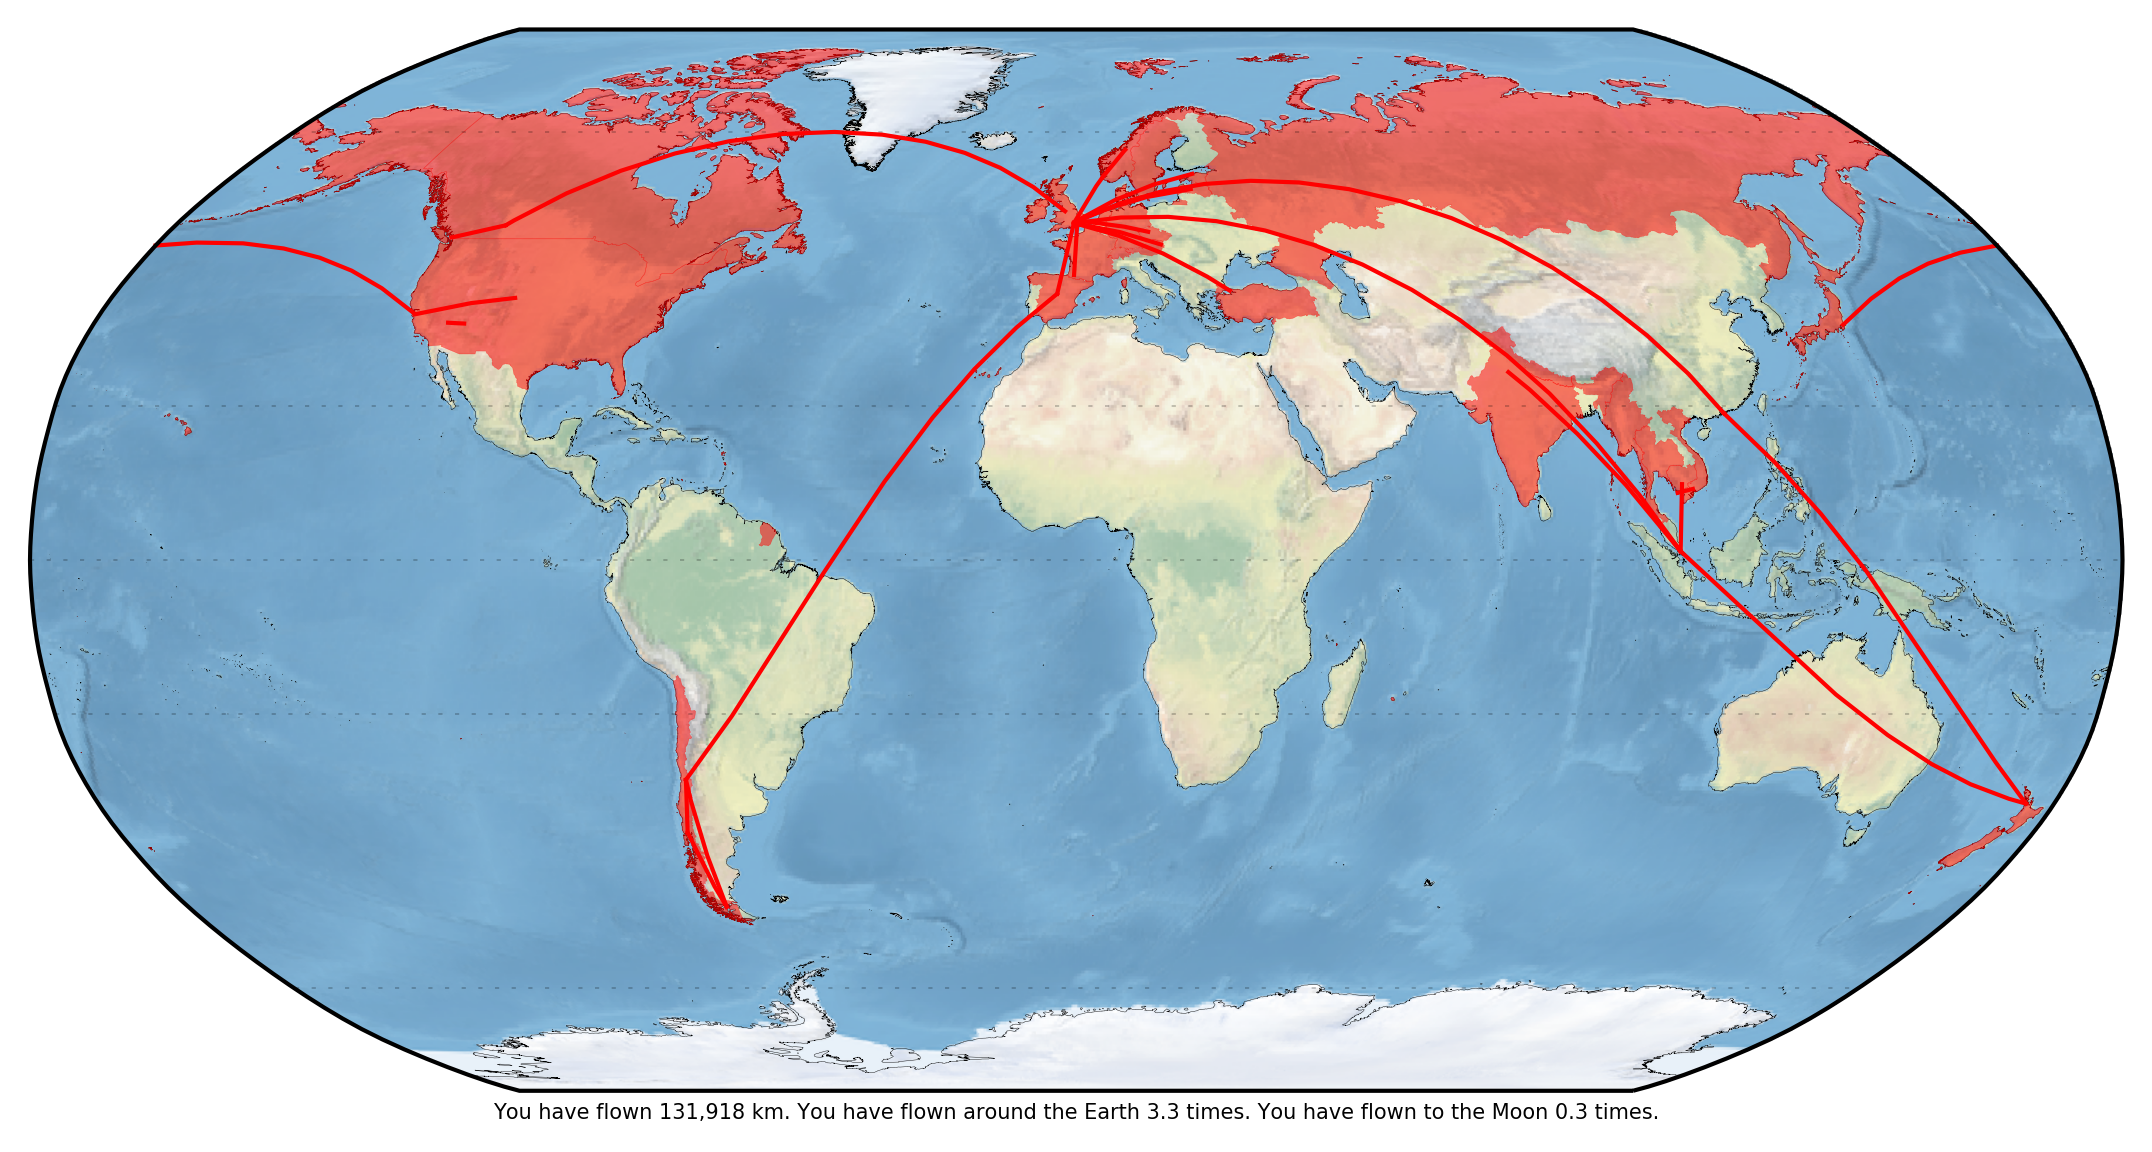
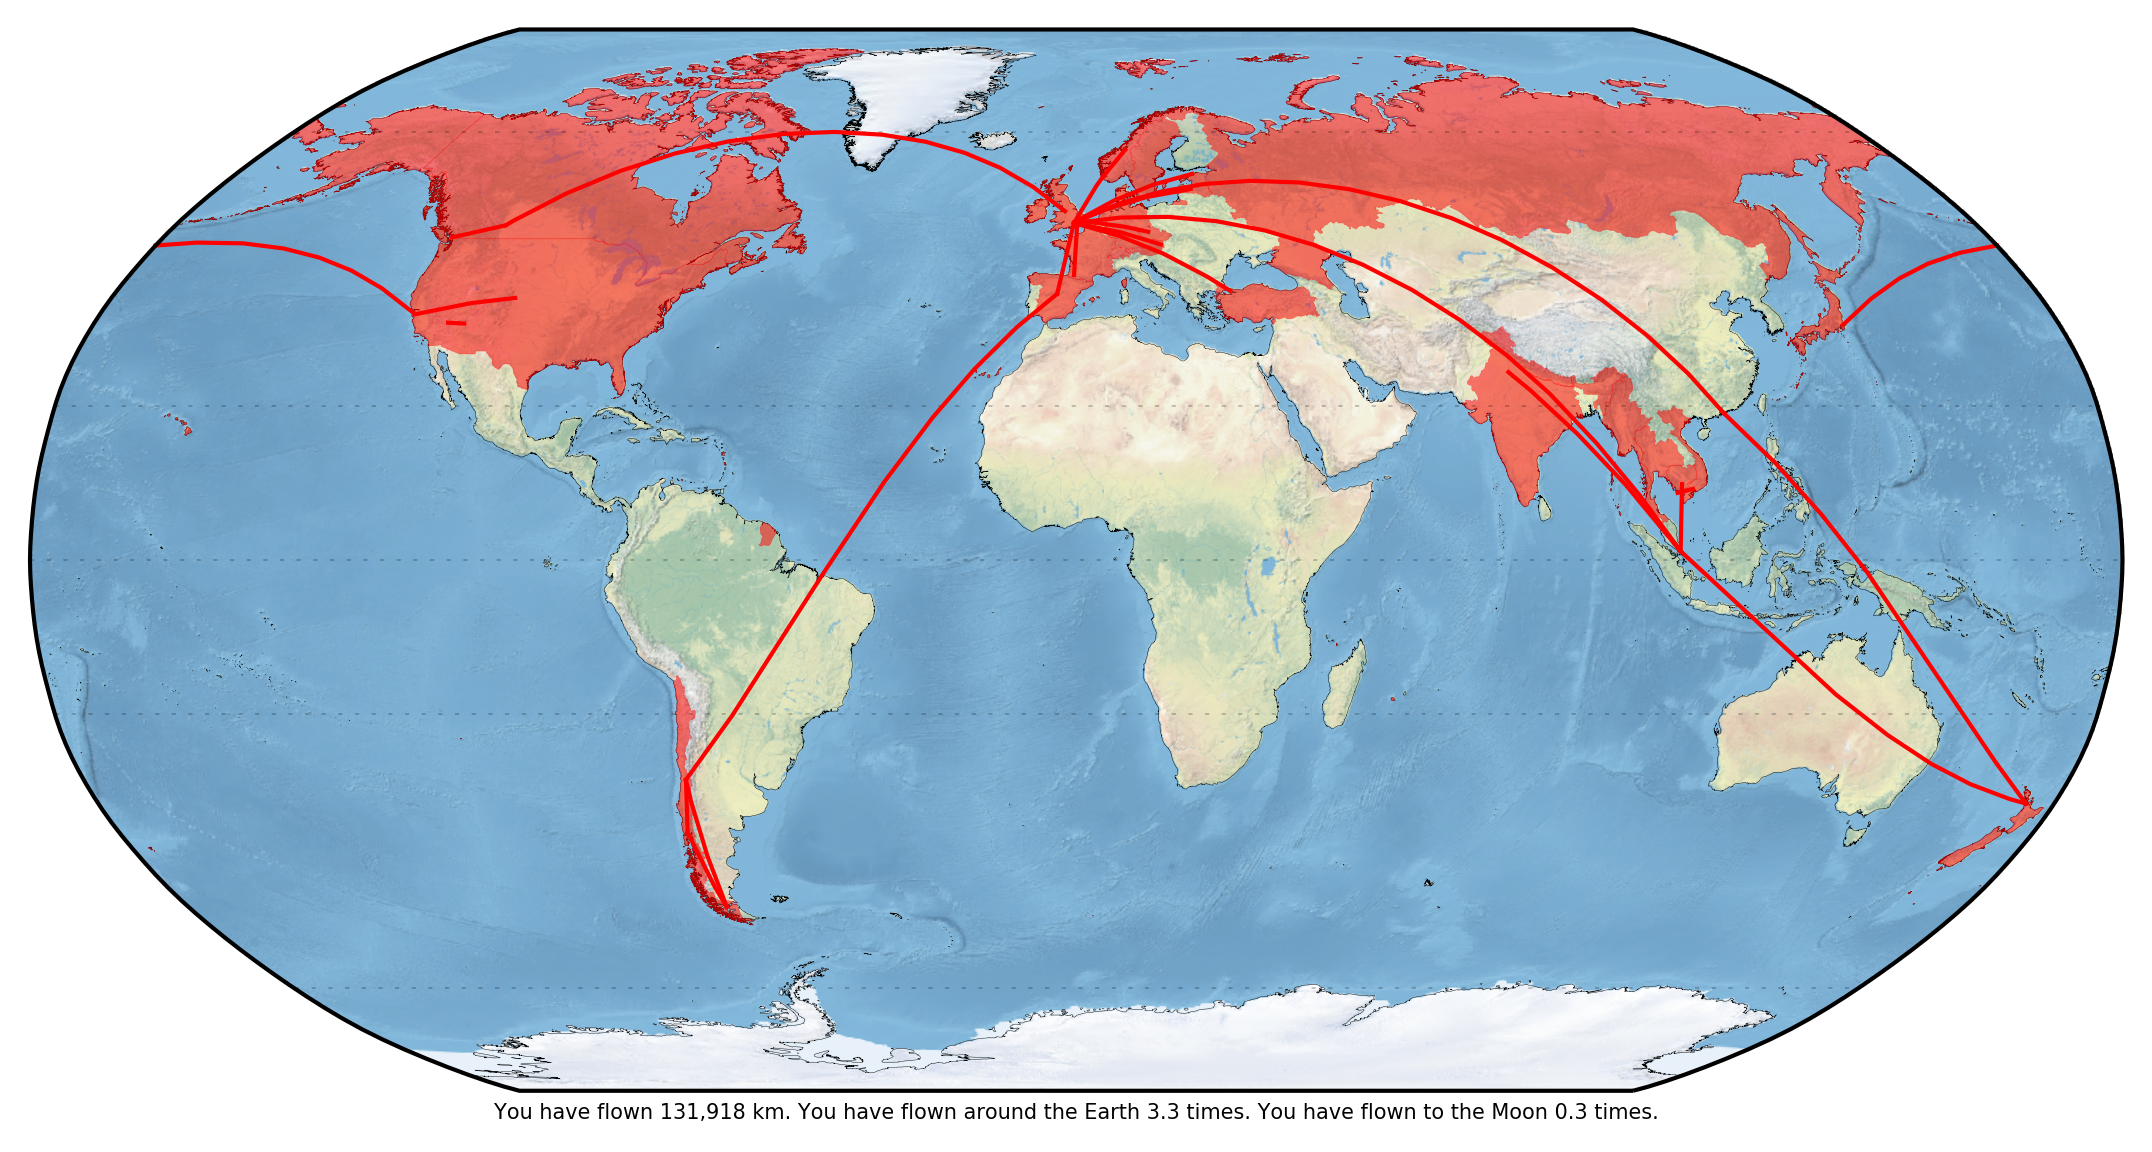
added explicit example.py file; re-run example to re-generate PNG with the higher-resolution background image

diff --git a/example.py b/example.py
@@ -1,0 +1,22 @@
+#!/usr/bin/env python
+
+# Import modules ...
+import fmc
+
+# Run function ...
+fmc.run(
+    flightLog = "example.csv",
+    extraCountries = [
+        "Denmark",
+        "Germany",
+        "Ireland",
+        "Myanmar",
+        "Nepal",
+        "Netherlands",
+        "Russia",
+        "Switzerland"
+    ],
+    renames = {
+        "Czech Republic" : "Czech Rep."
+    }
+)

diff --git a/README.md b/README.md
@@ -4,10 +4,15 @@ This module contains all the functions required to create a map of the world wit
 
 ## Usage
 
-FMC can be run very easily, below is an example.
+FMC can be run very easily, below is an example (also found in [example.py](example.py)).
 
 ```python
+#!/usr/bin/env python
+
+# Import modules ...
 import fmc
+
+# Run function ...
 fmc.run(
     flightLog = "example.csv",
     extraCountries = [
